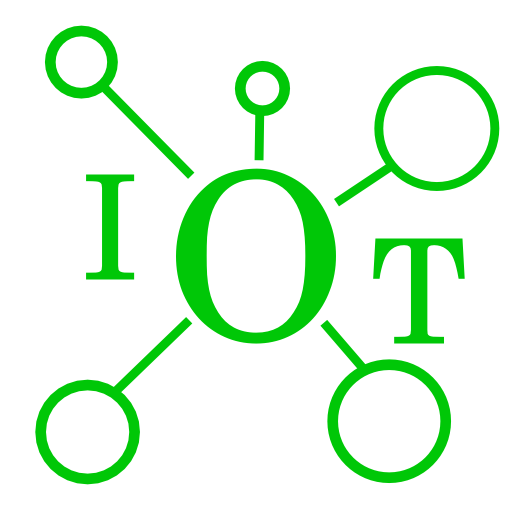
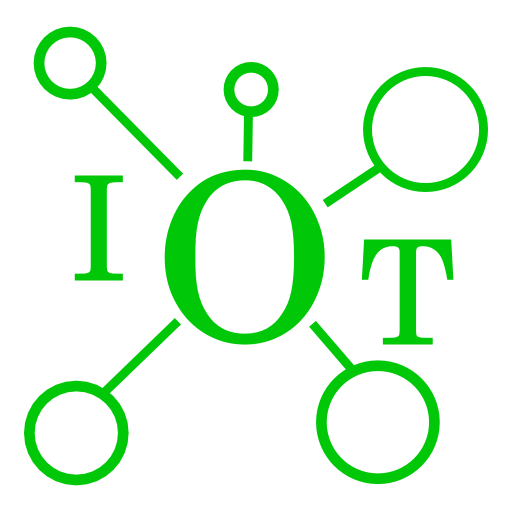
Updates to images, web config colors

Changed region(s): [[0.0312, 0.0312, 1.0, 0.9688], [0.125, 0.3125, 0.2812, 0.5625]]

diff --git a/web_config/index.html b/web_config/index.html
@@ -1,3 +1,4 @@
+<!DOCTYPE html>
 <html>
   <head>
     <title>PebbleIoT</title>
@@ -31,6 +32,28 @@
       </div>
       <div class="item-container-footer">
         This is your IFTTT Maker Channel key, this key is only stored on your local device.
+      </div>
+    </div>
+
+    <div class="item-container">
+      <div class="item-container-header">Color Scheme (Pebble Time/Pebble Round)</div>
+      <div class="item-container-content">
+        <label class="item">
+          Text Color
+          <input type="text" class="item-color item-color-normal" name="textColor" value="#000000">
+        </label>
+        <label class="item">
+          Background Color
+          <input type="text" class="item-color item-color-normal" name="backgroundColor" value="#FFFFFF">
+        </label>
+        <label class="item">
+          Selected Text Color
+          <input type="text" class="item-color item-color-normal" name="highlightTextColor" value="#FFFFFF">
+        </label>
+        <label class="item">
+          Selected Background Color
+          <input type="text" class="item-color item-color-normal" name="hightlightBackgroundColor" value="#000000">
+        </label>
       </div>
     </div>
 

diff --git a/web_config/app.js b/web_config/app.js
@@ -103,6 +103,22 @@ $(document).ready(function() {
     $('input[name="key"]').val(options.key);
   }
 
+  if (options.textColor !== false) {
+    $('input[name="textColor"]').val(options.textColor);
+  }
+
+  if (options.backgroundColor !== false) {
+    $('input[name="backgroundColor"]').val(options.backgroundColor);
+  }
+
+  if (options.hightlightTextColor !== false) {
+    $('input[name="hightlightTextColor"]').val(options.hightlightTextColor);
+  }
+
+  if (options.highlightBackgroundColor !== false) {
+    $('input[name="highlightBackgroundColor"]').val(options.highlightBackgroundColor);
+  }
+
   $('#reset').click(function() {
     reset();
   });

diff --git a/web_config/style.css b/web_config/style.css
@@ -6,6 +6,10 @@
   padding-top: 7px;
 }
 
+.item-styled-color .value {
+  top: 7px;
+}
+
 .empty {
   position: relative;
   padding: 10px;
